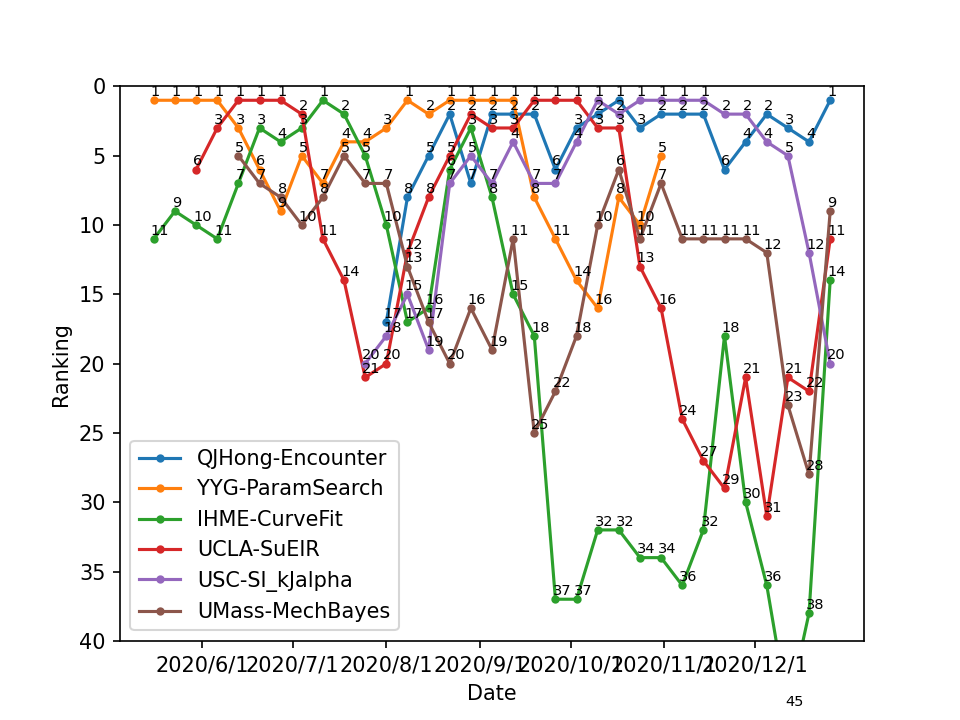
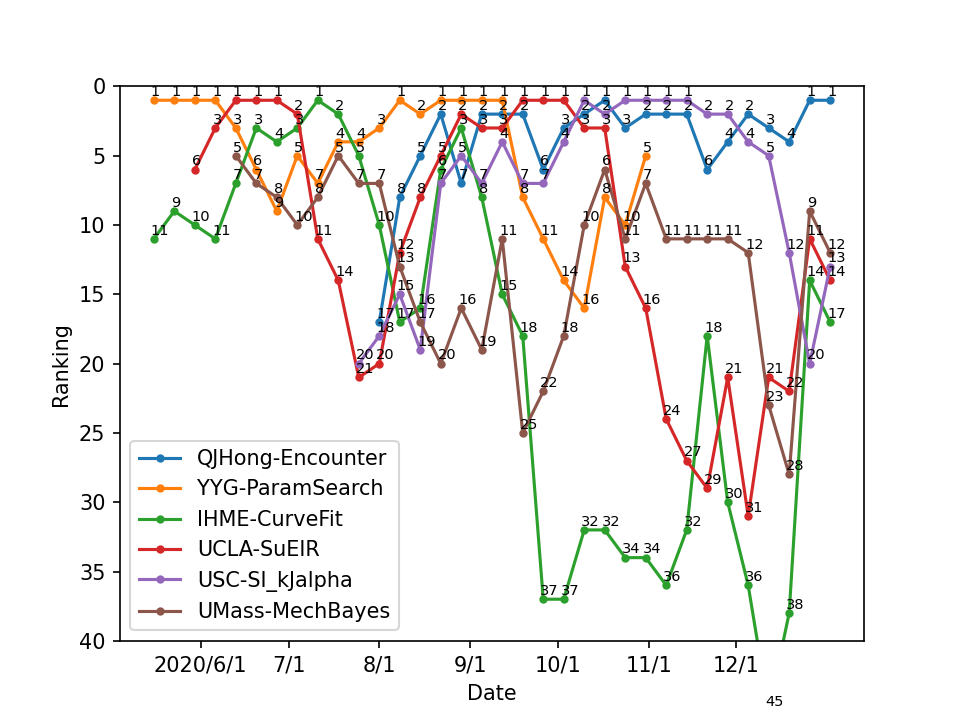
update jan 4

Changed region(s): [[0.1562, 0.1222, 0.875, 0.9778], [0.1875, 0.2139, 0.2188, 0.2444]]

diff --git a/myrank.py b/myrank.py
@@ -127,7 +127,7 @@ plt.gca().invert_yaxis()
 plt.xlabel('Date')
 plt.ylabel('Ranking')
 plt.legend(['QJHong-Encounter','YYG-ParamSearch','IHME-CurveFit','UCLA-SuEIR','USC-SI_kJalpha','UMass-MechBayes'])#,'OliverWyman-Navigator'])#,'COVIDhub-ensemble','LANL-GrowthRate'])
-plt.xticks([datetime(2020,6,1),datetime(2020,7,1),datetime(2020,8,1),datetime(2020,9,1),datetime(2020,10,1),datetime(2020,11,1),datetime(2020,12,1)],['2020/6/1','2020/7/1','2020/8/1','2020/9/1','2020/10/1','2020/11/1','2020/12/1'])
+plt.xticks([datetime(2020,6,1),datetime(2020,7,1),datetime(2020,8,1),datetime(2020,9,1),datetime(2020,10,1),datetime(2020,11,1),datetime(2020,12,1)],['2020/6/1','7/1','8/1','9/1','10/1','11/1','12/1'])
 plt.savefig('Model_Rank',dpi=150)
 plt.show()
 
